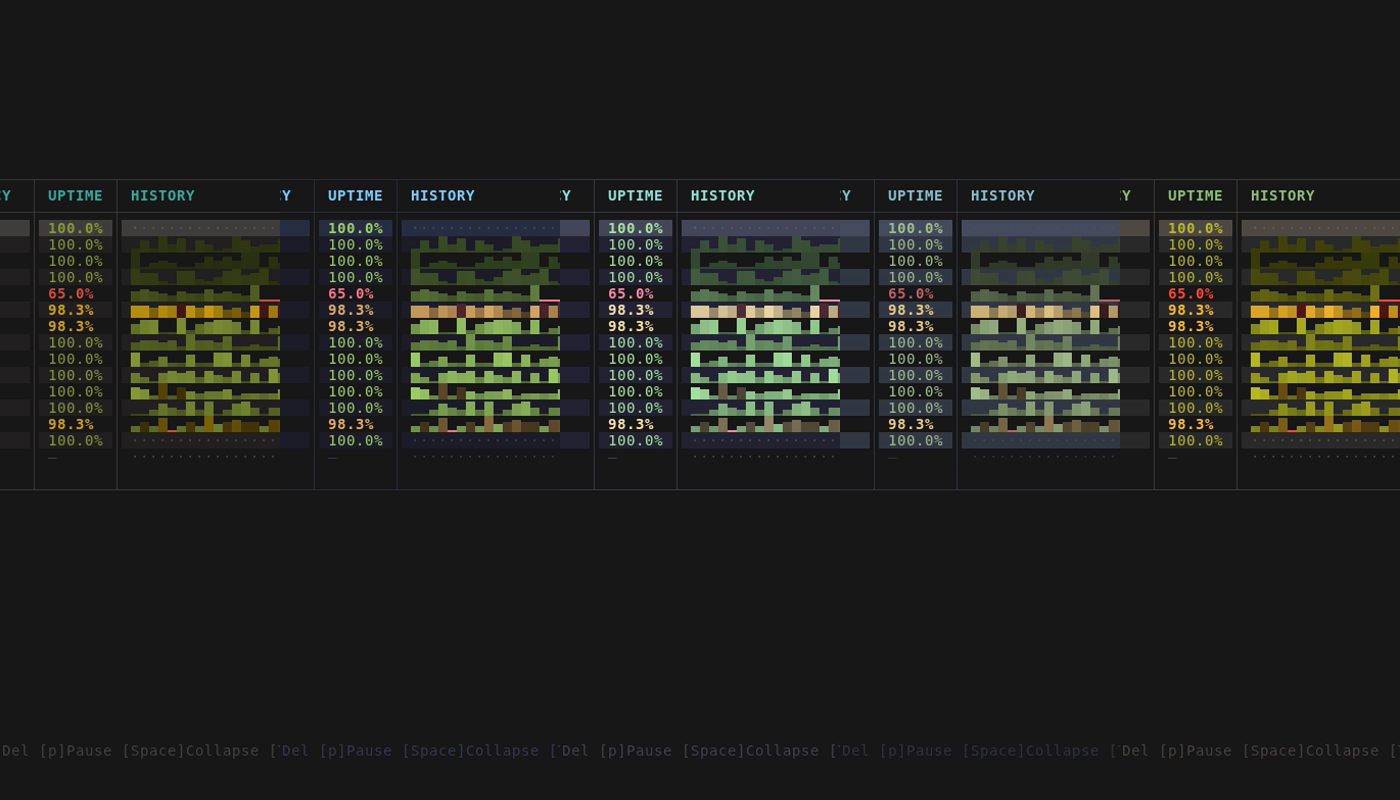
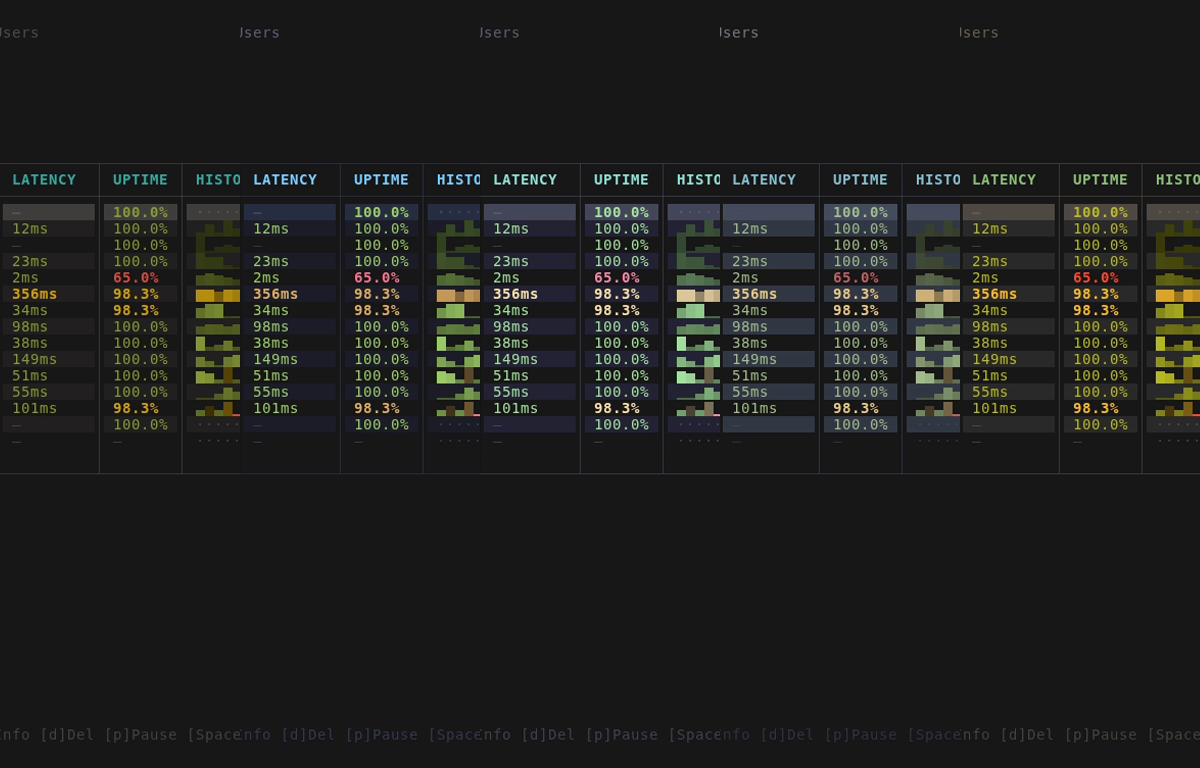
fix(tui): revert centering, fix demo GIF pacing
Revert upper-third centering — inconsistent start positions across tabs
felt jumpy. Back to standard top-align with consistent table placement.

Demo GIF now pauses on Nodes tab (cluster view is a selling point) and
skips Maint/Users quickly instead of sprinting through all three.

diff --git a/internal/tui/view_dashboard.go b/internal/tui/view_dashboard.go
@@ -181,18 +181,7 @@ func (m Model) viewDashboard() string {
 	if contentHeight < 1 {
 		contentHeight = 1
 	}
-
-	contentLines := lipgloss.Height(content)
-	var paddedContent string
-	if contentLines < contentHeight {
-		topPad := (contentHeight - contentLines) / 3
-		paddedContent = lipgloss.NewStyle().
-			PaddingTop(topPad).
-			Height(contentHeight).MaxHeight(contentHeight).
-			Render(content)
-	} else {
-		paddedContent = lipgloss.NewStyle().Height(contentHeight).MaxHeight(contentHeight).Render(content)
-	}
+	paddedContent := lipgloss.NewStyle().Height(contentHeight).MaxHeight(contentHeight).Render(content)
 
 	return outerPad.Render(lipgloss.JoinVertical(lipgloss.Top, header, paddedContent, footer))
 }
